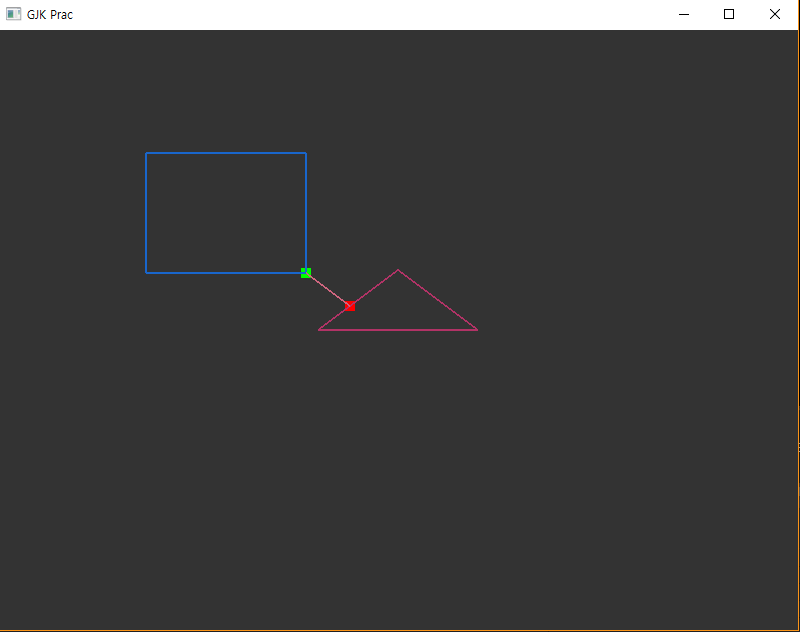
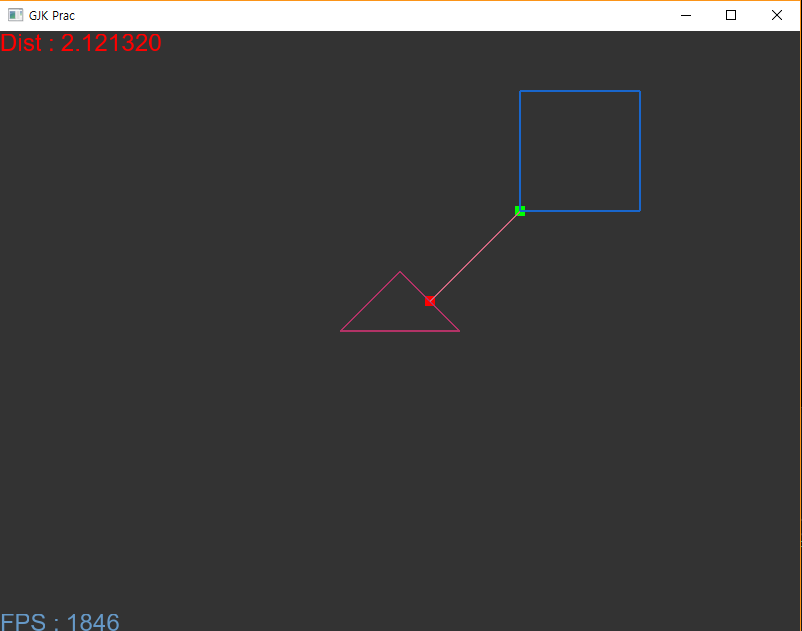
polish the code and update result after adding text-rendering

diff --git a/GJKPractice/main.cpp b/GJKPractice/main.cpp
@@ -27,10 +27,16 @@ bool CRTMemorySet();
 bool UnitTest();
 void keyCallback(GLFWwindow* window, int key, int scancode, int action, int mods);
 void sizeCallback(GLFWwindow* window, int width, int height);
+void scrollCallback(GLFWwindow* window, double dx, double dy);
 
 GLFWwindow* gWindow;
 int SCR_WIDTH = 800;
 int SCR_HEIGHT = 600;
+
+Chan::ChReal C_ZOOM = 1.0;
+Chan::ChVector2 C_CENTER = Chan::ChVector2(0, 0);
+Chan::ChReal C_DIMENSION = 5.0;
+
 Chan::ChTransform triTransform;
 Chan::ChTransform quadTransform;
 int main()
@@ -48,14 +54,11 @@ int main()
 
 	glfwSetKeyCallback(gWindow, keyCallback);
 	glfwSetFramebufferSizeCallback(gWindow, sizeCallback);
+	glfwSetScrollCallback(gWindow, scrollCallback);
 	glfwSwapInterval(0);
 
 	glEnable(GL_DEPTH_TEST);
 	glEnable(GL_CULL_FACE);
-
-	CGRenderLine lR;
-	CGRenderPoint pR;
-	CGRenderText tR(SCR_WIDTH, SCR_HEIGHT);
 
 	Chan::ChVector2 tris[3] =
 	{
@@ -84,56 +87,72 @@ int main()
 	quadTransform.p = Chan::ChVector2(3, 3);
 	quadTransform.R = Chan::ChMat22(Chan::Radians(0.0f));
 
+	CGRenderLine lR;
+	CGRenderPoint pR;
+	CGRenderText tR(SCR_WIDTH, SCR_HEIGHT);
+
 	int fpsCounter = 0;
 	double currentTime = 0;
 	double lastTime = 0;
 	double fpsTime = 0;
-
 	int FPS = 0;
+
 	while (!glfwWindowShouldClose(gWindow))
 	{
-		++fpsCounter;
-		lastTime = currentTime;
-		currentTime = glfwGetTime();
-		double deltaTime = currentTime - lastTime;
-		fpsTime += deltaTime;
-		if (fpsTime >= 1.0)
+		// Calculate FPS
 		{
-			FPS = fpsCounter;
-			fpsCounter = 0;
-			fpsTime = 0;
+			++fpsCounter;
+			lastTime = currentTime;
+			currentTime = glfwGetTime();
+			double deltaTime = currentTime - lastTime;
+			fpsTime += deltaTime;
+			if (fpsTime >= 1.0)
+			{
+				FPS = fpsCounter;
+				fpsCounter = 0;
+				fpsTime = 0;
+			}
 		}
-
 
 		glfwPollEvents();
 
 		glClearColor(0.2, 0.2, 0.2, 1.0);
 		glClear(GL_COLOR_BUFFER_BIT | GL_DEPTH_BUFFER_BIT);
 
-		Chan::Input firstTest;
-		firstTest.polygon1 = triangle;
-		firstTest.polygon2 = quad;
-		firstTest.transform1 = triTransform;
-		firstTest.transform2 = quadTransform;
+		// GJK Algorithm
+		Chan::Input InputTest;
+		Chan::Output OutputTest;
+		{
+			InputTest.polygon1 = triangle;
+			InputTest.polygon2 = quad;
+			InputTest.transform1 = triTransform;
+			InputTest.transform2 = quadTransform;
+			Chan::Distance2D(&OutputTest, InputTest);
+		}
+		
+		// Insert Output Primitives
+		{
+			pR.insertPoint(Chan::ChVector3(OutputTest.point1, 0), Chan::ChVector3(1, 0, 0), 10.f);
+			pR.insertPoint(Chan::ChVector3(OutputTest.point2, 0), Chan::ChVector3(0, 1, 0), 10.f);
+			lR.insertLine(Chan::ChVector3(OutputTest.point1, 0), Chan::ChVector3(OutputTest.point2, 0), Chan::ChVector3(0.81, 0.4, 0.5));
+			insertPolygon(lR, triangle, triTransform, Chan::ChVector3(0.7, 0.2, 0.4));
+			insertPolygon(lR, quad, quadTransform, Chan::ChVector3(0.1, 0.4, 0.8));
+		}
+		
+		// Render
+		{
+			Chan::ChReal ratio = (Chan::ChReal)SCR_WIDTH / (Chan::ChReal)SCR_HEIGHT;
+			Chan::ChVector2 extents(ratio * C_DIMENSION * C_ZOOM, C_DIMENSION * C_ZOOM);
+			Chan::ChVector2 lower = C_CENTER - extents;
+			Chan::ChVector2 upper = C_CENTER + extents;
+			Chan::ChMat44 proj = Chan::Ortho(lower.x, upper.x, lower.y, upper.y);
 
-		Chan::Output testResult;
+			lR.renderLine(proj, Chan::ChMat44(1.f), 2.f);
+			pR.renderPoint(proj, Chan::ChMat44(1.f));
 
-		Chan::Distance2D(&testResult, firstTest);
-
-		pR.insertPoint(Chan::ChVector3(testResult.point1, 0), Chan::ChVector3(1, 0, 0), 10.f);
-		pR.insertPoint(Chan::ChVector3(testResult.point2, 0), Chan::ChVector3(0, 1, 0), 10.f);
-		lR.insertLine(Chan::ChVector3(testResult.point1, 0), Chan::ChVector3(testResult.point2, 0), Chan::ChVector3(0.81, 0.4, 0.5));
-		insertPolygon(lR, triangle, triTransform, Chan::ChVector3(0.7, 0.2, 0.4));
-		insertPolygon(lR, quad, quadTransform, Chan::ChVector3(0.1, 0.4, 0.8));
-
-		std::string text("Distg : ");
-		text += std::to_string(testResult.distance);
-		tR.renderText(text, 0, SCR_HEIGHT - 50, 1.0, Chan::ChVector3(1, 0, 0));
-		tR.renderText(std::to_string(FPS), 0, 0, 0.5, Chan::ChVector3(0.4, 0.6, 0.78));
-
-		Chan::ChMat44 proj = Chan::Ortho(-5.f, 5.f, -5.f, 5.f);
-		lR.renderLine(proj, Chan::ChMat44(1.f), 2.f);
-		pR.renderPoint(proj, Chan::ChMat44(1.f));
+			tR.renderText("Dist : " + std::to_string(OutputTest.distance), 0, SCR_HEIGHT - 20, 0.5, Chan::ChVector3(1, 0, 0));
+			tR.renderText("FPS : " + std::to_string(FPS), 0, 0, 0.5, Chan::ChVector3(0.4, 0.6, 0.78));
+		}
 
 		glfwSwapBuffers(gWindow);
 	}
@@ -156,6 +175,7 @@ bool CRTMemorySet()
 }
 
 static bool Key1Pressed = false;
+static Chan::ChReal moveVel = 0.2;
 void keyCallback(GLFWwindow* window, int key, int scancode, int action, int mods)
 {
 	static bool what = false;
@@ -175,16 +195,16 @@ void keyCallback(GLFWwindow* window, int key, int scancode, int action, int mods
 			goto Final;
 		}
 		case GLFW_KEY_W:
-			object->p += Chan::ChVector2(0, 0.05);
+			object->p += Chan::ChVector2(0, moveVel);
 			goto Final;
 		case GLFW_KEY_A:
-			object->p += Chan::ChVector2(-0.05, 0.0);
+			object->p += Chan::ChVector2(-moveVel, 0.0);
 			goto Final;
 		case GLFW_KEY_S:
-			object->p += Chan::ChVector2(0.0 , -0.05);
+			object->p += Chan::ChVector2(0.0 , -moveVel);
 			goto Final;
 		case GLFW_KEY_D:
-			object->p += Chan::ChVector2(0.05, 0.0);
+			object->p += Chan::ChVector2(moveVel, 0.0);
 			goto Final;
 
 		case GLFW_KEY_R:
@@ -206,9 +226,14 @@ Final:
 
 void sizeCallback(GLFWwindow* window, int width, int height)
 {
-	SCR_WIDTH = width;
-	SCR_HEIGHT = height;
+	SCR_WIDTH = width, SCR_HEIGHT = height;
 	glViewport(0, 0, SCR_WIDTH, SCR_HEIGHT);
+}
+
+void scrollCallback(GLFWwindow* window, double dx, double dy)
+{
+	if (dy > 0) C_ZOOM /= 1.1f;
+	else C_ZOOM *= 1.1f;
 }
 
 bool UnitTest()
